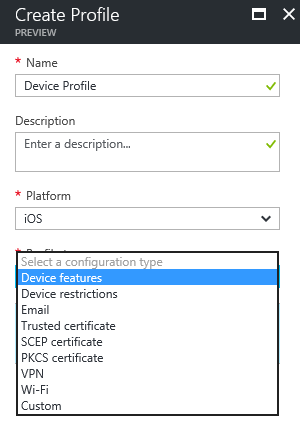
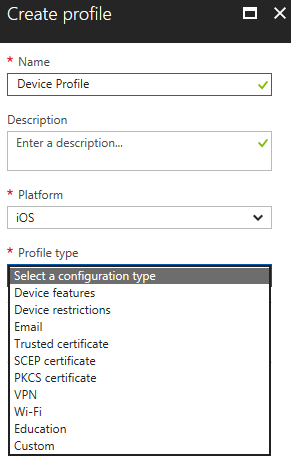
Replaced two graphics with non-preview versions

diff --git a/intune/app-management.md b/intune/app-management.md
@@ -8,7 +8,7 @@ keywords:
 author: robstackmsft
 ms.author: robstack
 manager: angrobe
-ms.date: 06/04/2017
+ms.date: 06/16/2017
 ms.topic: get-started-article
 ms.prod:
 ms.service: microsoft-intune

diff --git a/intune/device-profile-create.md b/intune/device-profile-create.md
@@ -7,7 +7,7 @@ keywords:
 author: robstackmsft
 ms.author: robstack
 manager: angrobe
-ms.date: 03/16/2017
+ms.date: 05/16/2017
 ms.topic: article
 ms.prod:
 ms.service: microsoft-intune
